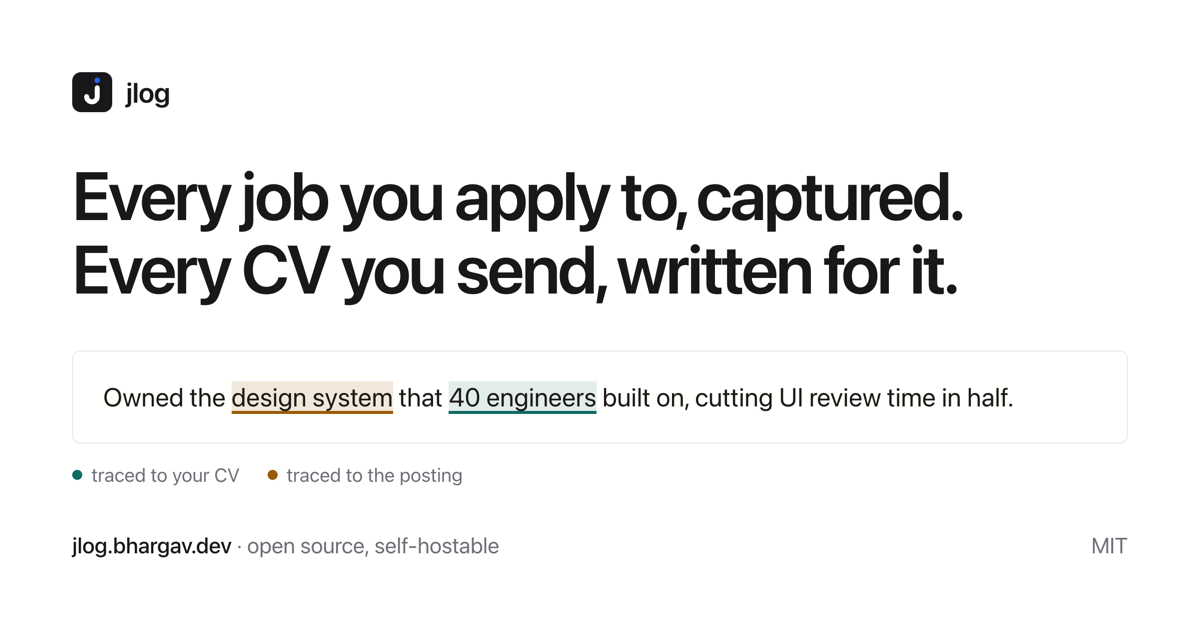
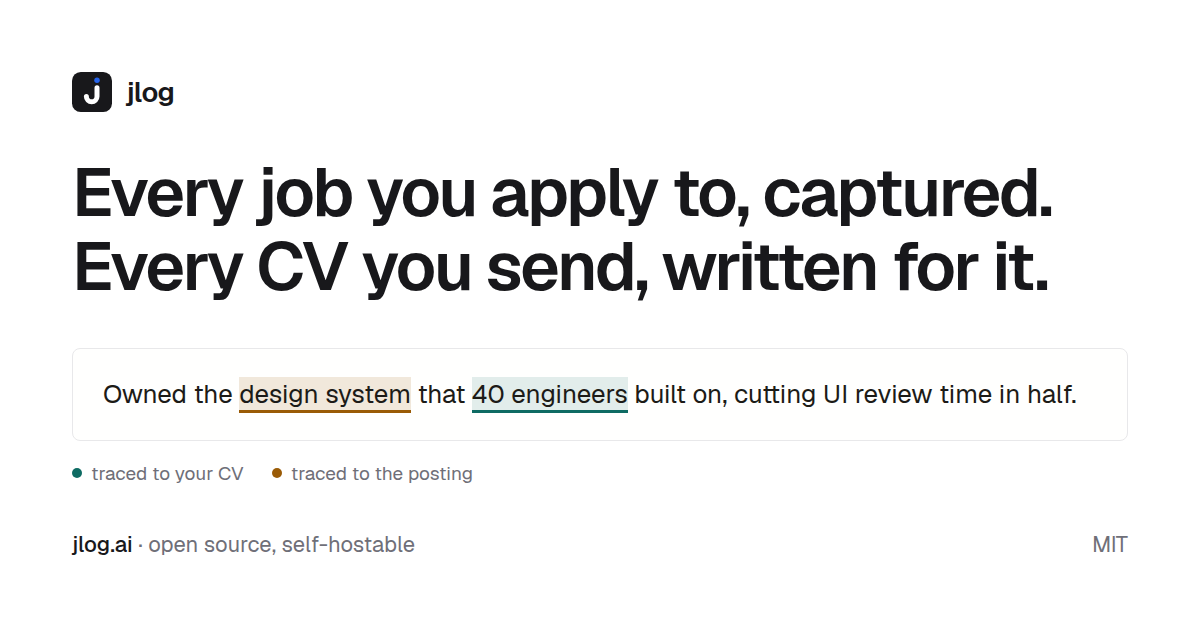
chore(web): social card and config name jlog.ai
The card's footer reads jlog.ai, and og.png is regenerated from
scripts/og-card.html at 1200x630 with Geist loaded, so only the domain
changed. The astro.config comment names the new origin.

diff --git a/apps/web/scripts/og-card.html b/apps/web/scripts/og-card.html
@@ -165,7 +165,7 @@
     </div>
 
     <div class="foot">
-      <span><strong>jlog.bhargav.dev</strong> · open source, self-hostable</span>
+      <span><strong>jlog.ai</strong> · open source, self-hostable</span>
       <span>MIT</span>
     </div>
   </body>
